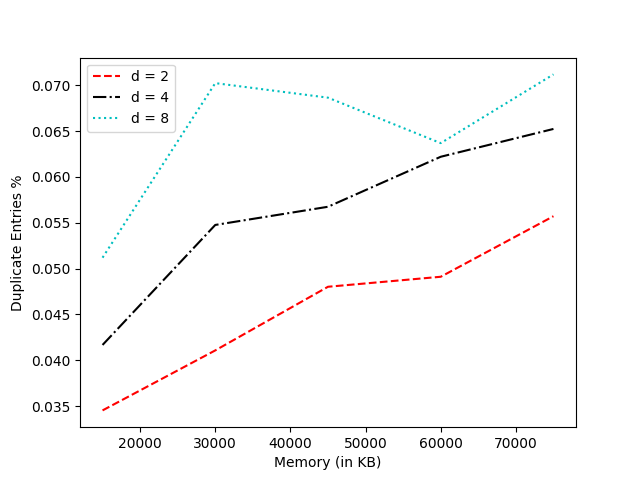
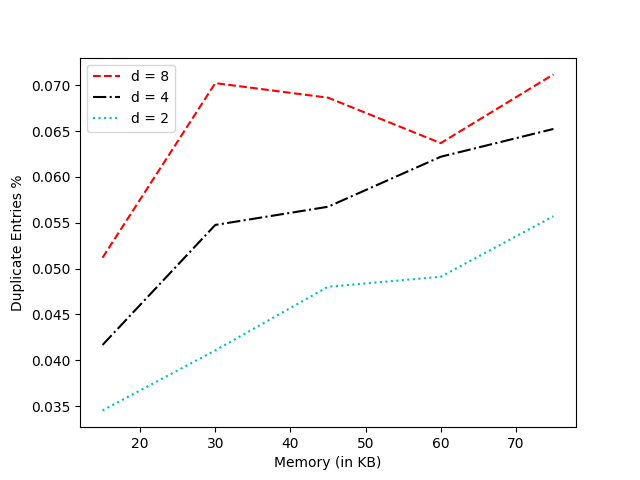
updated figure 3 isp

diff --git a/evaluation/results.py b/evaluation/results.py
@@ -8,11 +8,13 @@ import matplotlib.pyplot as plt
 from flowCounter import FlowCounter
 from hashPipeSimulator import Simulator
 
-inputFile = 'data/header_fields_ISP.csv'
+inputFile = 'data/header_fields_ISP_16.csv'
 configs = [(140, 3360), (210, 5040), (350, 6720), (420, 8400)]
 
 dVals = range(2, 9)
 mVals = [840 * i for i in range(1, 6)]
+
+# 840, 40 (m, k) for datacenter 
 
 trueCounter = FlowCounter(inputFile)
 totalFlows = trueCounter.getNumFlows()
@@ -67,19 +69,19 @@ def main():
   # plt.xlabel('Number of table stages (d)')
   # plt.legend(['k = %d, m = %d' % (k, m) for (k, m) in configs], loc='best')
 
-  # plt.savefig('figure_2_ISP_2016.png')
+  # plt.savefig('figure_2_DC.png')
   # plt.close()
 
   # Figure 3, duplicates
   print ("Finding duplicates")
   colors = ['r', 'k', 'c']
   linestyles = ['--', '-.', ':']
-  for i, d in enumerate([2, 4, 8]):
-    plt.plot([m / 840 * 15000 for m in mVals], findDupPercentage(d), color=colors[i], ls=linestyles[i])
+  for i, d in enumerate([8, 4, 2]):
+    plt.plot([m / 840 * 15 for m in mVals], findDupPercentage(d), color=colors[i], ls=linestyles[i])
 
   plt.ylabel('Duplicate Entries %')
   plt.xlabel('Memory (in KB)')
-  plt.legend(['d = %d' % d for d in [2, 4, 8]], loc='best')
+  plt.legend(['d = %d' % d for d in [8, 4, 2]], loc='best')
 
   plt.savefig('figure_3_ISP_2016.png')
 
